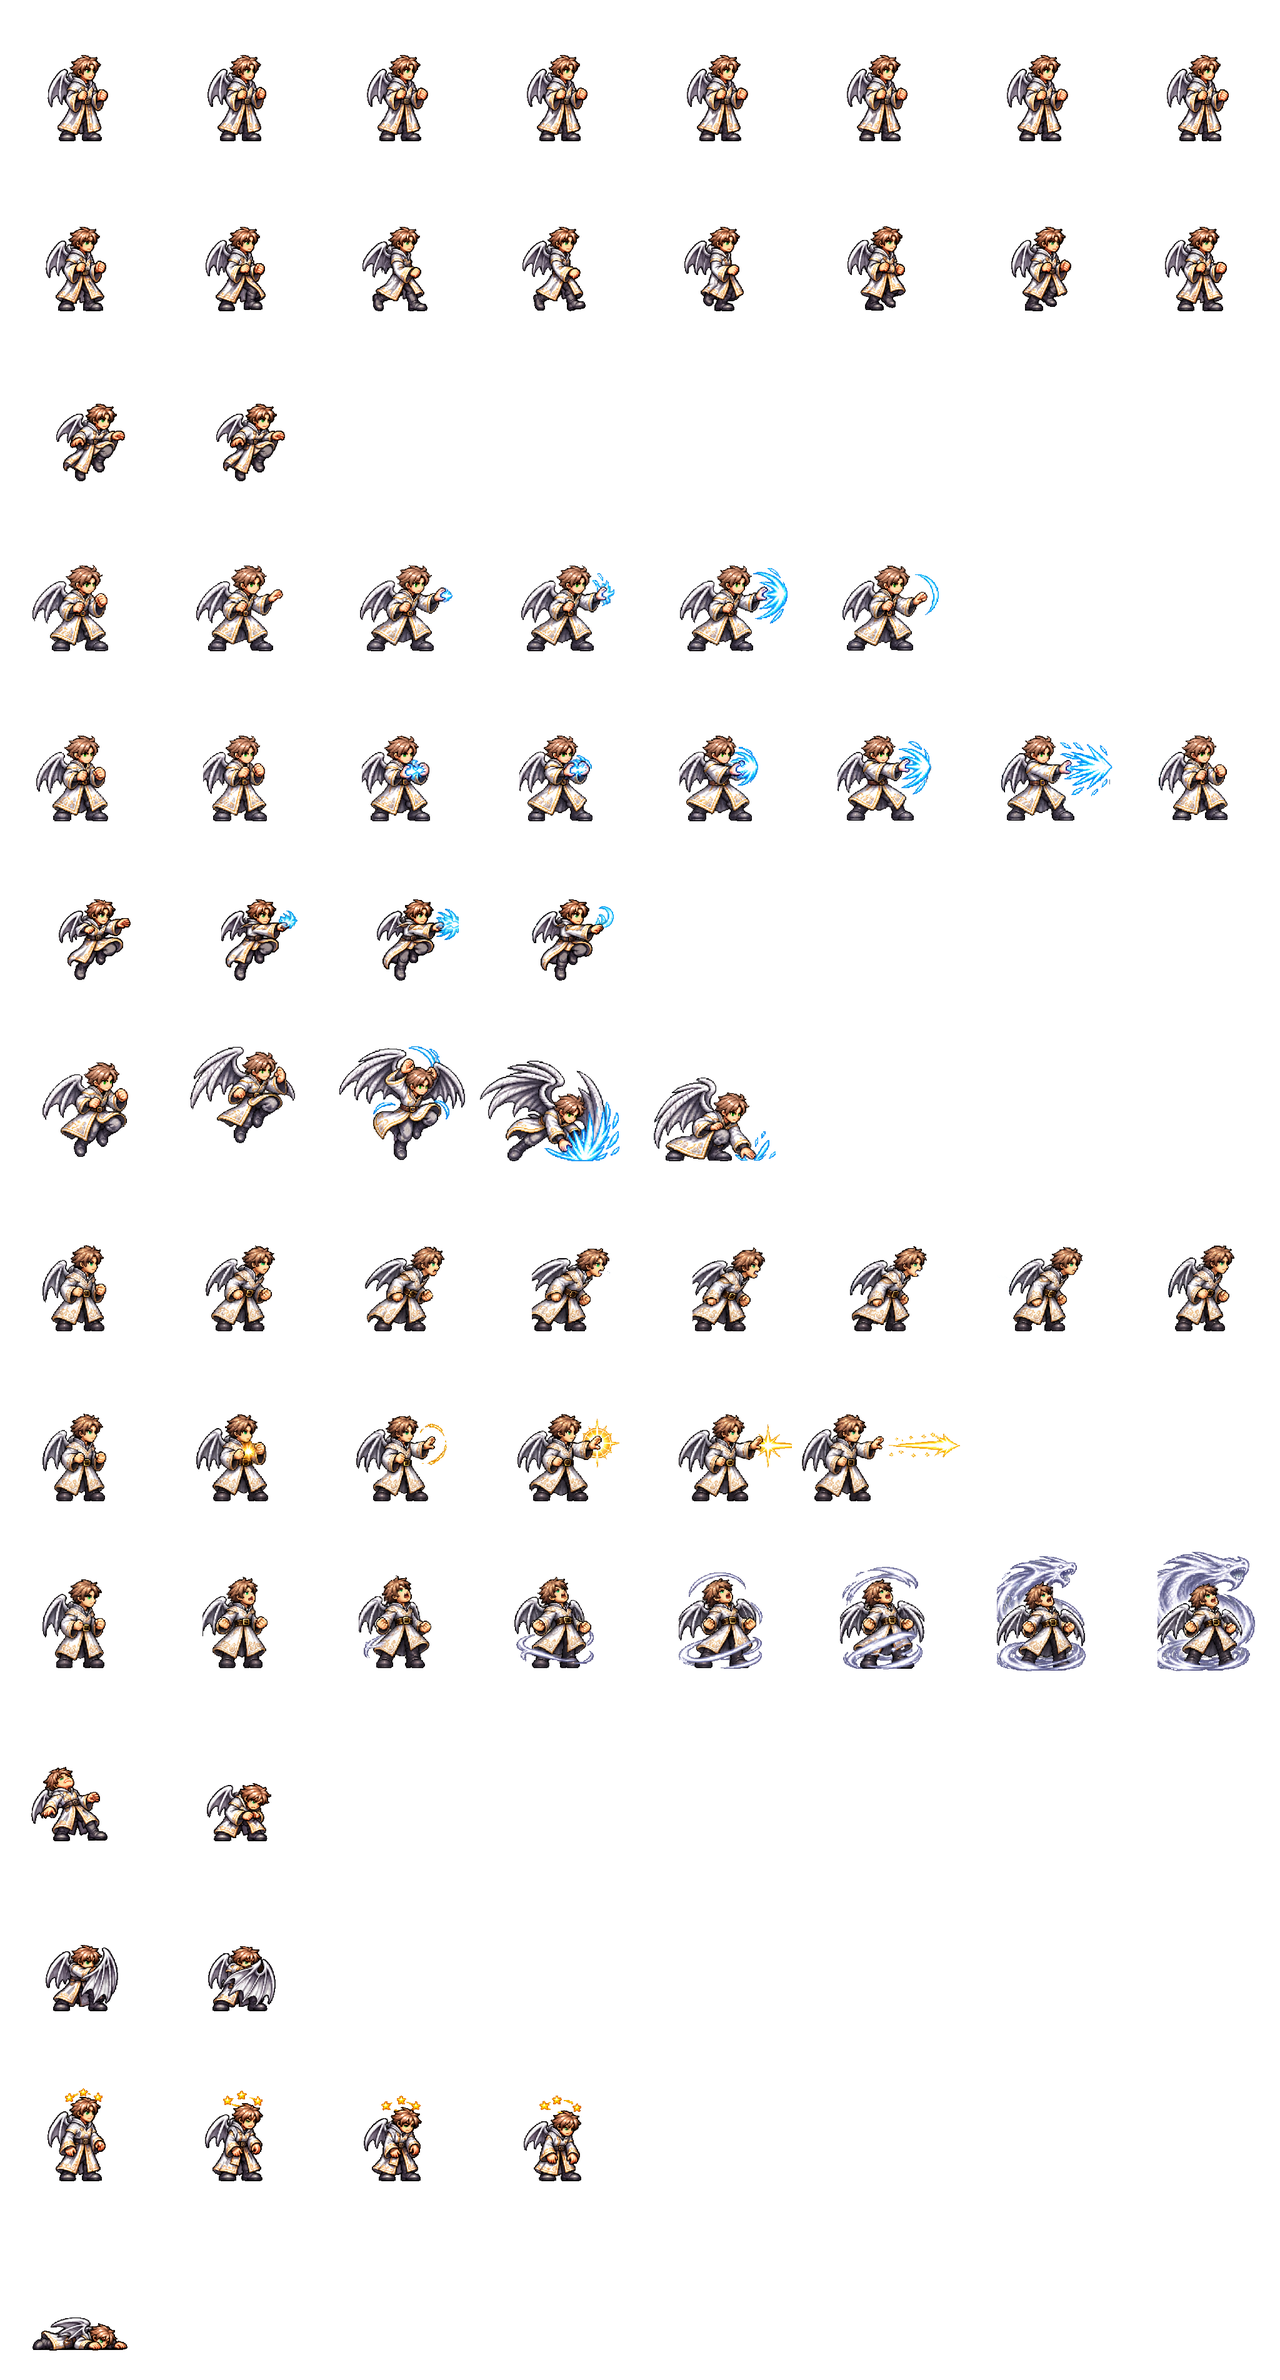
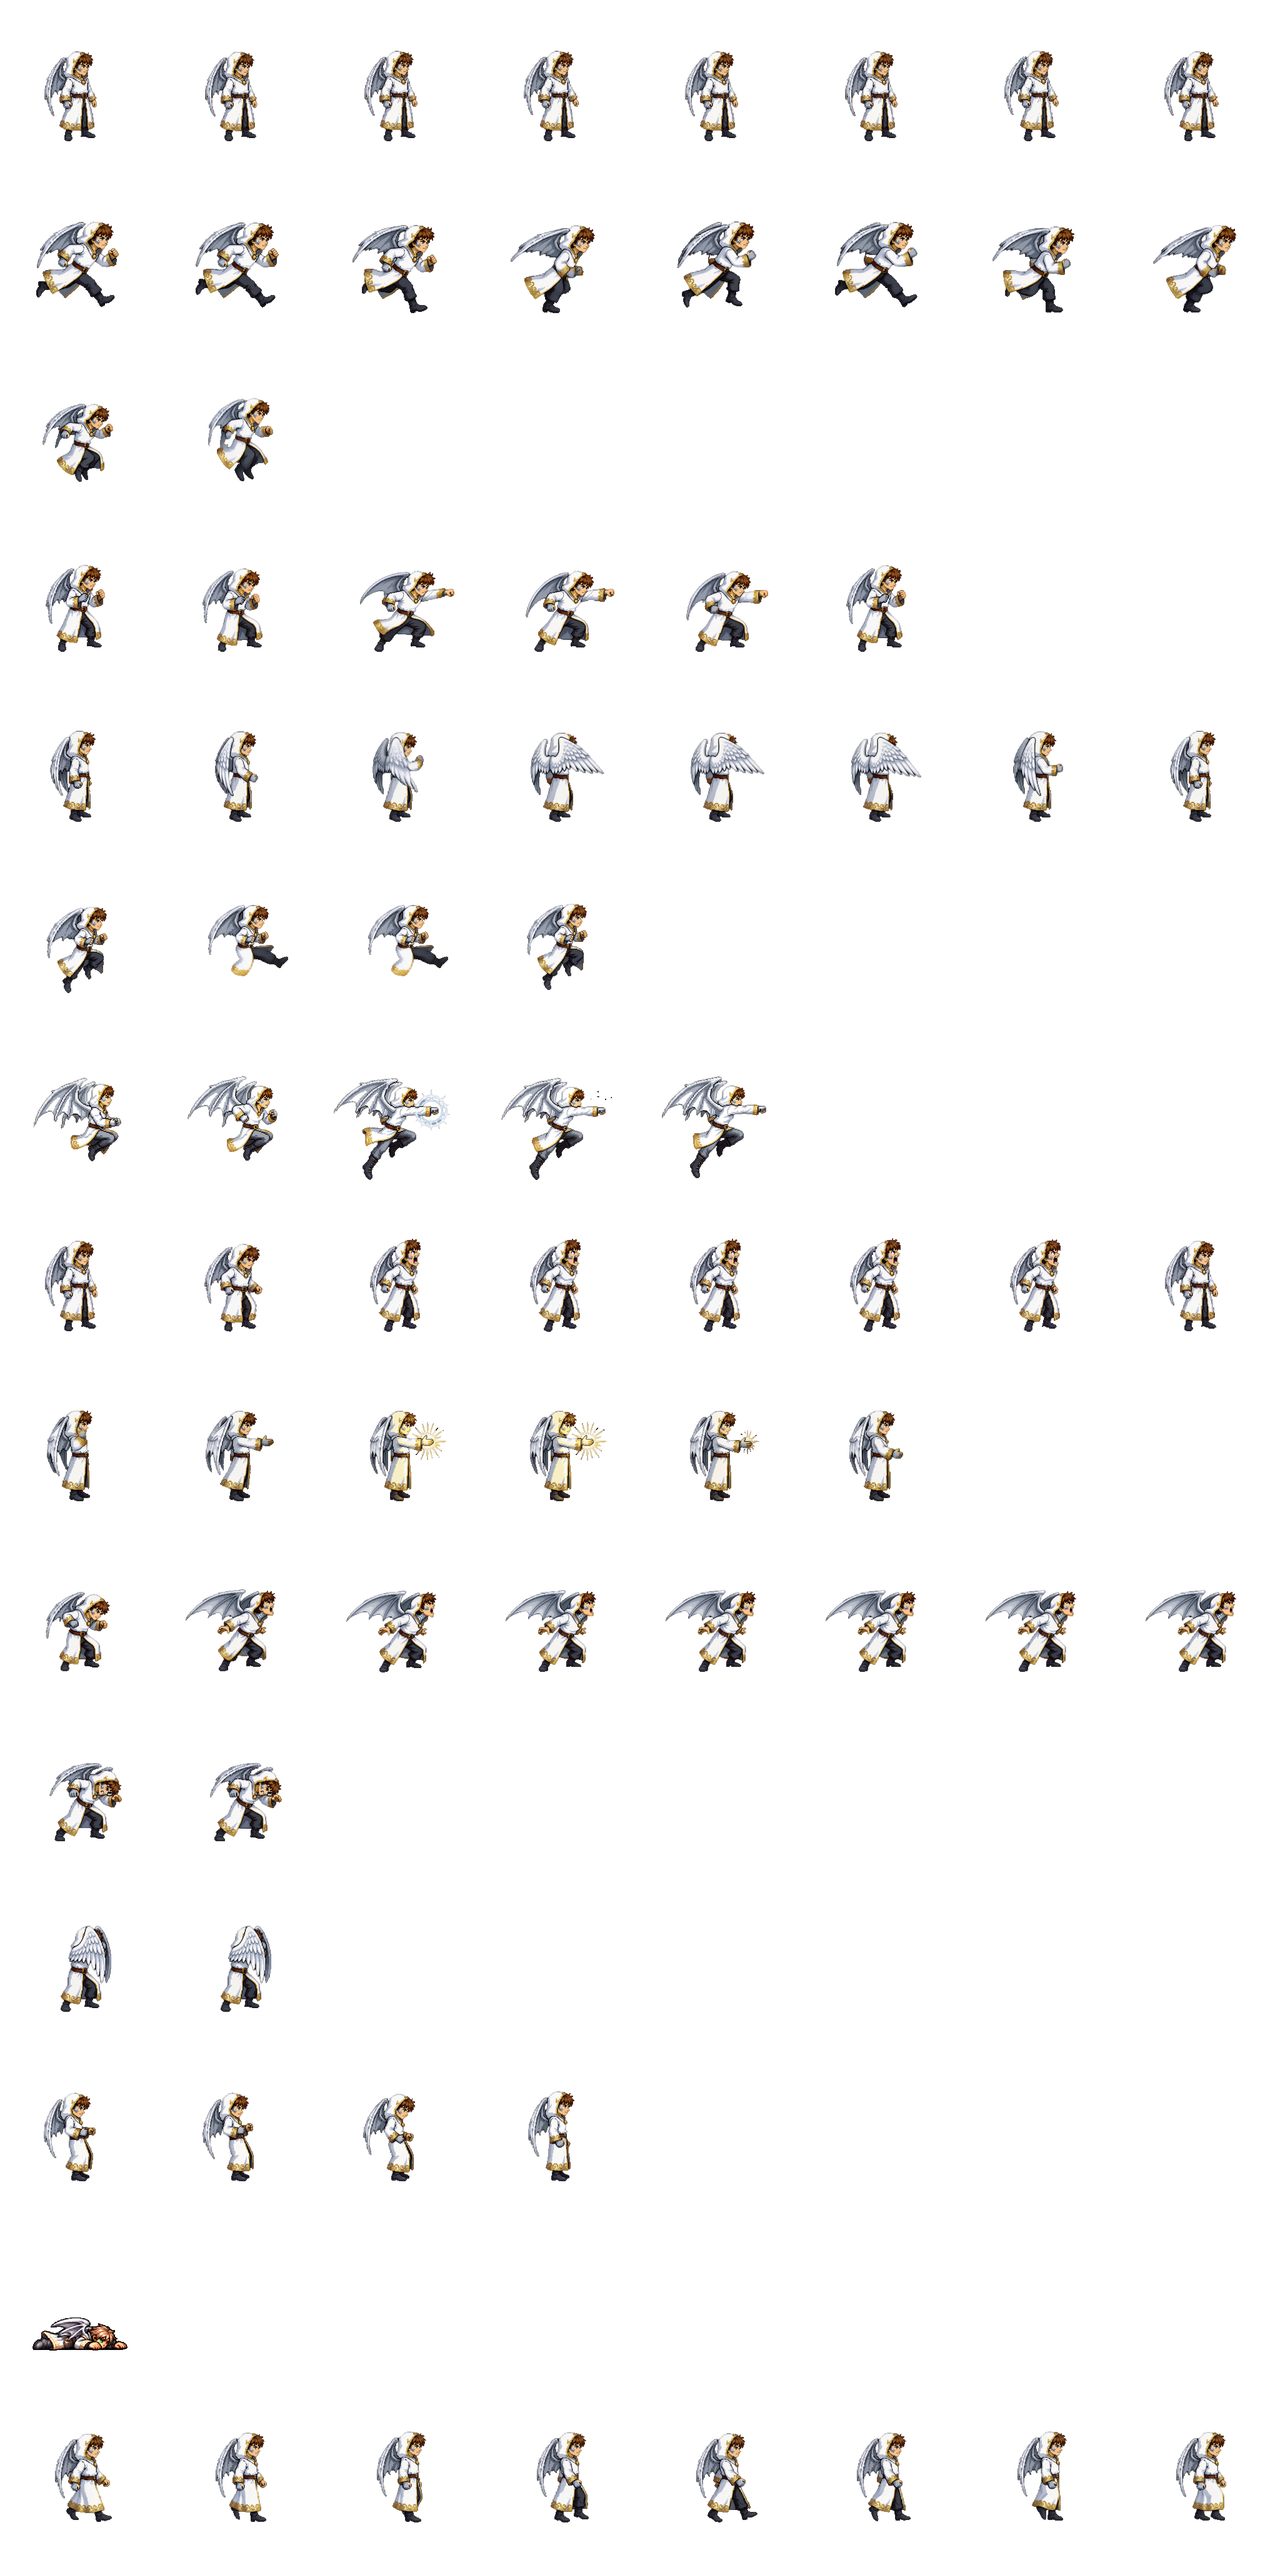
v0.2.12: free facing, Soren's dragon breath cone, new Soren dragon art
Claude-Session: https://claude.ai/code/session_016k8booSJmwFL3PSx76aHCw

diff --git a/index.html b/index.html
@@ -312,6 +312,7 @@ const STEADY_T=180,STEADY_MODE='A'; // Big Chief after a union break: 3s of no k
 const CHIEF_NORM=1.0,HAWK_MUL=1.2,HAWK_KB=1.3,BEAR_SHIELD=0.10; // Big Chief: normals at 80%; the hawk totem gives +20% (back to 96%); the bear's shield is 10% of max HP
 const TOTEMS=[{id:'unicorn',n:'UNICORN TOTEM!',col:'#9bf0a0',hue:0},{id:'bear',n:'BEAR TOTEM!',col:'#d8a060',hue:-95},{id:'hawk',n:'HAWK TOTEM!',col:'#ffd34d',hue:-70}];
 const GUIDE_T=240,GUIDE_BONUS=1.2; // Guiding Bolt: the mark lasts 4s; his next direct hit on them does +20%
+const DRAGON_CONE=[-2,0,1.4,2.6]; // dragon breath fan: vertical speed of each puff (from his mouth: up a little, straight, down, down to the ground)
 const SOREN_BREATH=13,DRAGON_T=480,DRAGON_TAKE=0.7,DRAGON_HIT=1.32,DRAGON_SPD=1.15,GLIDE_VY=1.8; // Soren: breath damage per puff, dragon form (6s): damage taken / dealt, speed; max fall speed while gliding
 const UNION_BREAK=150,PAX_MUL=1.2,SMOKE_LIFE=240,TOTEM_HEAL=5,TOTEM_DMG=12,DEER_DMG=34,DEER_CD=360,TRAIN_END=52,SMOKE_MISS=[0.5,0.25,0],SMOKE_CRIT=0.3,ACR_DMG=18,TRAIN_V=8.5,TRAIN_BASE=6,TRAIN_PER=0.95,TRAIN_WALL=30,STRIKE_HITS=5,STRIKE_DMG=40,HUG_SQUEEZE=22,HUG_THROW=55,DART_CD=360;
 // Calder's syringer: each dart uses one chem that's ready; that chem then needs DART_CD frames to come back
@@ -558,8 +559,9 @@ const CH=[
  moves:Object.assign(normals({reach:8,light:1.18}),{
   s1:mv({n:'Frost Breath',d:'Breathes a short cone of freezing breath: several quick hits that chill (slow) whoever is caught in it',su:12,ac:1,re:16,len:46,dmg:0,box:[0,0,0,0],cd:150,
     start:(s,a)=>{if(a.dragon>0)say(s,a.x,a.y-120,'DRAGON BREATH!','#bfe6ff',26)},
-    tick:(s,a,f)=>{if(f>=12&&f<=40&&(f-12)%4===0){const big=a.dragon>0;proj(s,a,{kind:'frost',big,x:a.x+a.face*(big?70:30),y:a.y-(big?84:70)+((f/4)%3-1)*8,vx:a.face*(big?10:8.5),w:big?40:28,h:big?36:24,life:big?30:22,dmg:SOREN_BREATH,kb:[1.2,0],hs:6,
-      onHit:(s,a,d)=>{d.slow=Math.max(d.slow,45)}})}}}),
+    tick:(s,a,f)=>{if(f>=12&&f<=40&&(f-12)%4===0){const big=a.dragon>0,chill=(s,a,d)=>{d.slow=Math.max(d.slow,45)};
+      if(big){for(const vy of DRAGON_CONE)proj(s,a,{kind:'frost',big,grp:s.frame*2+a.i+1,x:a.x+a.face*24,y:a.y-84+((f/4)%2)*6,vx:a.face*9.5,vy,w:46,h:42,life:37,dmg:SOREN_BREATH,kb:[1.2,0],hs:6,onHit:chill});return} // dragon: a wide cone from his mouth down to the ground (each puff of the fan is one hit: only the first to land counts)
+      proj(s,a,{kind:'frost',big,x:a.x+a.face*30,y:a.y-70+((f/4)%3-1)*8,vx:a.face*8.5,w:28,h:24,life:22,dmg:SOREN_BREATH,kb:[1.2,0],hs:6,onHit:chill})}}}),
   s2:mv({n:'Guiding Bolt',d:'His signature spell: a bolt of radiant light fired straight ahead. A hit leaves the target glowing for 4s, and his next hit on them does 20% more damage',su:14,ac:1,re:16,len:34,dmg:0,box:[0,0,0,0],cd:58,
     tick:(s,a,f)=>{if(f===14)proj(s,a,{kind:'moon',y:a.y-62,vx:a.face*10,w:26,h:18,life:110,dmg:76,kb:[5,-3],hs:16,onHit:(s,a,d)=>{d.guided=GUIDE_T;s.fx.push({k:'sfx',row:3,x:d.x,y:d.y-60,life:18,t:0,d:96})}})}}),
   su:mv({n:'Silver Dragon',d:'Roars (knocking back anyone close) and takes the form of a silver dragon for 8s: takes 30% less damage, hits 32% harder, moves faster, and his breath gets bigger',su:14,ac:1,re:18,len:36,dmg:0,box:[0,0,0,0],inv:[0,22],
@@ -848,15 +850,15 @@ function control(s,f,inp){
   const pr=inp&~f.prev;f.prev=inp;
   if(s.phase!=='fight')return;
   if(!['idle','walk','jump','block'].includes(f.st))return;
-  const c=CH[f.c],d=opp(s,f);
-  if(f.ground&&f.st!=='jump')f.face=d.x>=f.x?1:-1;
+  const c=CH[f.c];
+  const dir=((inp&K.R)?1:0)-((inp&K.L)?1:0);
+  if(dir)f.face=dir; // free facing: you face the way you last pressed (ground or air, and while blocking), so a direction + attack on the same frame turns first. Locked during attacks, hits and stuns
   const wantSuper=(pr&K.SU)||((inp&K.S1)&&(inp&K.S2)&&(pr&(K.S1|K.S2)));
   if(wantSuper&&f.meter>=METER)return startMove(s,f,'su');
   if((pr&K.S1)&&!(inp&K.S2)&&f.cd.s1<=0)return startMove(s,f,'s1');
   if((pr&K.S2)&&!(inp&K.S1)&&f.cd.s2<=0)return startMove(s,f,'s2');
   if(pr&K.HP)return startMove(s,f,f.ground?'h':'ah');
   if(pr&K.LP)return startMove(s,f,f.ground?'l':'al');
-  const dir=((inp&K.R)?1:0)-((inp&K.L)?1:0);
   const wind=STAGE.hazard==='wind'&&s.hz?s.hz.w:0;
   const spd=c.spd*(f.slow>0?(f.slowLv>1?0.35:0.55):1)*(f.haste>0?1.35:1)*(f.muddle>0?0.7:1)*(f.berserk>0?1.15:1)*(f.dragon>0?DRAGON_SPD:1)*(f.jet>0?JET_SPD:1)*(dir?1+WIND.k*wind*dir:1); // with the wind: faster; into it: slower
   if(f.ground){
@@ -934,7 +936,7 @@ function tickProj(s){
     if(p.betrayAt&&p.t===p.betrayAt){p.vx=-p.vx*1.2;p.bad=1;say(s,p.x,p.y-40,'...UH OH','#ff6a5a',24)}
     const owner=s.f[p.o],tgt=p.bad?owner:s.f[1-p.o];
     if(p.life>0&&!p.noHit&&p.miss!==tgt.i&&ov([p.x-p.w/2,p.y-p.h/2,p.w,p.h],hurt(tgt))){
-      if(hitF(s,p.bad?null:owner,tgt,{dmg:p.dmg*CH[owner.c].pow*(p.falloff?Math.max(0.4,1-p.t*Math.abs(p.vx)/600):1),kb:p.kb,hs:p.hs,launch:p.launch,unb:p.unb,dir:p.vx>=0?1:-1,src:p.src,shieldMul:p.shieldMul||(p.kind==='bullet'?0.5:1)})){p.life=0;if(p.kind==='deer')s.fx.push({k:'cdpoof',x:p.x,y:p.y+34+(p.n%2)*16,dir:Math.sign(p.vx)||1,red:p.n===0,life:24,t:0});if(p.kind==='shiplaser')s.fx.push({k:'olhit',x:p.x,y:p.y,life:16,t:0});if(p.kind==='plasma')s.fx.push({k:'hrplasma',x:p.x,y:p.y,life:18,t:0});
+      if(hitF(s,p.bad?null:owner,tgt,{dmg:p.dmg*CH[owner.c].pow*(p.falloff?Math.max(0.4,1-p.t*Math.abs(p.vx)/600):1),kb:p.kb,hs:p.hs,launch:p.launch,unb:p.unb,dir:p.vx>=0?1:-1,src:p.src,shieldMul:p.shieldMul||(p.kind==='bullet'?0.5:1)})){p.life=0;if(p.grp)for(const q of s.proj)if(q.grp===p.grp)q.noHit=1;if(p.kind==='deer')s.fx.push({k:'cdpoof',x:p.x,y:p.y+34+(p.n%2)*16,dir:Math.sign(p.vx)||1,red:p.n===0,life:24,t:0});if(p.kind==='shiplaser')s.fx.push({k:'olhit',x:p.x,y:p.y,life:16,t:0});if(p.kind==='plasma')s.fx.push({k:'hrplasma',x:p.x,y:p.y,life:18,t:0});
         if(p.onHit&&(tgt.st==='hit'||tgt.st==='down'||tgt.shrugT===s.frame||(p.pierce&&(tgt.st==='bstun'||tgt.st==='stun'))))p.onHit(s,owner,tgt,p)}
       else if(tgt.missed===s.frame)p.miss=tgt.i;
     }
@@ -1163,7 +1165,12 @@ const SPECIAL_RANGE={frica:{s1:[0,120],s2:[0,700]},madog:{s1:[60,420],s2:[0,140]
   calder:{s1:[220,850],s2:[90,600]},heavyrail:{s1:[120,700],s2:[60,250]},owen:{s1:[90,600],s2:[0,420]},tedd:{s1:[40,420],s2:[0,95]},bof:{s1:[60,230],s2:[0,125]},chief:{s1:[60,620]},soren:{s1:[30,170],s2:[160,720]}};
 // react: [fastest, slowest] frames between decisions (60 frames = 1s). Humans react in roughly 12-18 frames.
 const CPU_DIFF={easy:{react:[22,36],block:0.15,aggr:0.35,adapt:0.3},normal:{react:[15,26],block:0.45,aggr:0.55,adapt:0.7},hard:{react:[11,19],block:0.75,aggr:0.75,adapt:1}};
-function cpuInput(s,i,diff,mem){ // stage awareness wrapped around the fighting brain: get out of the vortex, don't wander in
+function cpuInput(s,i,diff,mem){ // free facing: when the CPU attacks, blocks or uses a special it turns to face its opponent first (the brain was written for auto-facing)
+  const o=cpuStage(s,i,diff,mem),me=s.f[i],d=s.f[1-i];
+  if(!(o&(K.LP|K.HP|K.S1|K.S2|K.SU|K.B))||(o&K.U)||me.st==='ko'||d.st==='ko')return o;
+  if(Math.abs(d.x-me.x)<4)return o;
+  return(o&~(K.L|K.R))|(d.x>me.x?K.R:K.L)}
+function cpuStage(s,i,diff,mem){ // stage awareness wrapped around the fighting brain: get out of the vortex, don't wander in
   const o=cpuBrain(s,i,diff,mem),P=STAGE.pit,me=s.f[i],hw=CH[me.c].w/2,free=['idle','walk','block'].includes(me.st);
   if(STAGE.hazard==='boulder'&&s.hz&&s.hz.warn>0&&me.st!=='ko'){const h=s.hz,react={easy:45,normal:24,hard:12}[diff]||24; // see the shadow, get out from under it
     if(BOULDER.warn-h.warn>=react){const dx=me.x-h.x,zone=BOULDER.w/2+hw+14;
@@ -2150,7 +2157,7 @@ function pixelSprite(f,key){
 }
 /* ---- hand-made sprite sheets (8 columns x 14 rows of 256x272 cells, feet at 128,226, facing right).
    Rows: idle, walk, jump, light, heavy, air light, air heavy, special 1, special 2, super, hit, block, stunned, knocked down. ---- */
-const SHEETS={frica:{src:'frica_sheet.png',frames:[8,8,2,6,8,4,5,8,6,8,2,2,4,1]},madog:{src:'madog_sheet.png',frames:[8,8,2,7,8,4,5,8,6,8,2,2,4,1]},feng:{src:'feng_sheet.png',frames:[8,8,2,6,8,4,5,8,6,8,2,2,4,1]},dask:{src:'dask_sheet.png',frames:[8,8,2,6,8,4,5,8,6,8,2,2,4,1]},tenebrund:{src:'tenebrund_sheet.png',frames:[8,8,2,6,8,4,5,8,6,8,2,2,4,1]},salty:{src:'salty_sheet.png',frames:[8,8,2,6,8,4,5,8,6,8,2,2,4,1,8,8]},calder:{src:'calder_sheet.png',frames:[7,7,2,6,7,4,5,7,6,7,2,2,4,1]},heavyrail:{src:'heavyrail_sheet.png',frames:[8,8,2,6,8,4,5,8,6,8,2,2,4,1]},owen:{src:'owen_sheet.png',frames:[8,8,2,6,8,4,5,8,6,8,2,2,4,1]},tedd:{src:'tedd_sheet.png',frames:[8,8,2,6,8,4,5,8,6,8,2,2,4,1]},bof:{src:'bof_sheet.png',frames:[8,8,2,6,8,4,5,8,6,8,2,2,4,1]},chief:{src:'chief_sheet.png',frames:[8,8,2,6,8,4,5,8,6,8,2,2,4,1]},soren:{src:'soren_sheet.png',frames:[8,8,2,6,8,4,5,8,6,8,2,2,4,1]}};
+const SHEETS={frica:{src:'frica_sheet.png',frames:[8,8,2,6,8,4,5,8,6,8,2,2,4,1]},madog:{src:'madog_sheet.png',frames:[8,8,2,7,8,4,5,8,6,8,2,2,4,1]},feng:{src:'feng_sheet.png',frames:[8,8,2,6,8,4,5,8,6,8,2,2,4,1]},dask:{src:'dask_sheet.png',frames:[8,8,2,6,8,4,5,8,6,8,2,2,4,1]},tenebrund:{src:'tenebrund_sheet.png',frames:[8,8,2,6,8,4,5,8,6,8,2,2,4,1]},salty:{src:'salty_sheet.png',frames:[8,8,2,6,8,4,5,8,6,8,2,2,4,1,8,8]},calder:{src:'calder_sheet.png',frames:[7,7,2,6,7,4,5,7,6,7,2,2,4,1]},heavyrail:{src:'heavyrail_sheet.png',frames:[8,8,2,6,8,4,5,8,6,8,2,2,4,1]},owen:{src:'owen_sheet.png',frames:[8,8,2,6,8,4,5,8,6,8,2,2,4,1]},tedd:{src:'tedd_sheet.png',frames:[8,8,2,6,8,4,5,8,6,8,2,2,4,1]},bof:{src:'bof_sheet.png',frames:[8,8,2,6,8,4,5,8,6,8,2,2,4,1]},chief:{src:'chief_sheet.png',frames:[8,8,2,6,8,4,5,8,6,8,2,2,4,1]},soren:{src:'soren_sheet.png',frames:[8,8,2,6,8,4,5,8,6,8,2,2,4,1,8]}};
 const SHEET_ROW={l:3,h:4,al:5,ah:6,s1:7,s2:8,su:9,dact:8};
 const FXS={demon:{src:'demon_sheet.png'},static:{src:'static_sheet.png'},madog:{src:'madog_fx.png'},fengsw:{src:'feng_sw.png'},fengpamph:{src:'feng_pamph.png'},fengpillar:{src:'feng_pillar.png'},vortex:{src:'erebus_vortex.png'},gfboulder:{src:'gf_boulder.png'},gfgiant:{src:'gf_giant.png'},unda:{src:'erebus_unda.png'},dask:{src:'dask_fx.png'},ten:{src:'tenebrund_fx.png'},sbul:{src:'salty_bullets.png'},swave:{src:'salty_wave.png'},shipdoor:{src:'ship_door.png'},bloatfly:{src:'tahoe_bloatfly.png'},cproj:{src:'calder_proj.png'},cchem:{src:'calder_chems.png'},hrfx:{src:'hr_fx.png'},hrp:{src:'hr_plasma.png'},oproj:{src:'owen_proj.png'},olaser:{src:'owen_laser.png'},osmoke:{src:'owen_smoke.png'},tfx:{src:'tedd_fx.png'},bfx:{src:'bof_fx.png'},cdeer:{src:'chief_deer.png'},celf:{src:'chief_elves.png'},cfx:{src:'chief_fx.png'},arrows:{src:'vogler_arrows.png'},sdragon:{src:'soren_dragon.png'},sfx:{src:'soren_fx.png'}};
 const SBC=84,SWC=230; // salty bullets (bullet 4, muzzle 4, impact 6) and Mush It wave (loop 8, fade 8)
@@ -2197,14 +2204,14 @@ function sheetFrame(f,sh){
   }
   return[row,col];
 }
-const DGW=448,DGH=320,DGX=224,DGY=290; // soren_dragon.png cells; rows: hover, walk, claw, tail, breath, cast, roar, hit 2 + block 2
+const DGW=512,DGH=320,DGX=224,DGY=290,DGN=[4,5,8,8,8,8,8,4]; // soren_dragon.png cells (frames per row in DGN); rows: hover, gallop, claw, wing sweep, breath (col 0 = standing), cast, roar, hit 2 + block 2
 function dragonFrame(f){
-  if(f.st==='atk'){const m=CH[f.c].moves[f.mv],row={l:2,al:2,h:3,ah:3,s1:4,s2:5,su:6}[f.mv]??2;return[row,Math.min(3,Math.floor(f.mf/m.len*4))]}
+  if(f.st==='atk'){const m=CH[f.c].moves[f.mv],row={l:2,al:2,h:3,ah:3,s1:4,s2:5,su:6}[f.mv]??2;return[row,Math.min(DGN[row]-1,Math.floor(f.mf/m.len*DGN[row]))]}
   if(f.st==='hit'||f.st==='grabbed')return[7,Math.min(1,Math.floor(f.t/5))];
   if(f.st==='block'||f.st==='bstun')return[7,f.st==='bstun'?3:2];
   if(f.st==='stun'||f.st==='ko'||f.st==='down')return[7,1];
-  if(!f.ground)return[0,Math.floor(f.t/6)%4];
-  if(f.st==='walk')return[1,Math.floor(f.t/5)%4];
+  if(!f.ground)return[0,Math.floor(f.t/6)%DGN[0]];
+  if(f.st==='walk')return[1,Math.floor(f.t/4)%DGN[1]];
   return[4,0];
 }
 function dragonArt(f){return f.dragon>0&&CH[f.c].id==='soren'&&fxOn('sdragon')}
@@ -2241,7 +2248,7 @@ function drawFighter(f,tagCol,tag){
   if(f.counter>0){g.strokeStyle='#ffd34d';g.lineWidth=3;g.globalAlpha=0.6+0.4*Math.sin(f.t);g.beginPath();g.arc(0,-c.h*0.5,c.h*0.66,0,7);g.stroke();g.globalAlpha=1}
   if(f.armor){g.strokeStyle='#ffffffaa';g.lineWidth=3;rr(-c.w/2-6,-c.h-6,c.w+12,c.h+12,14);g.stroke()}
   g.restore();
-  if(act&&act.dmg){ // swoosh trail on the attack's hitbox
+  if(act&&act.dmg&&!(c.id==='soren'&&f.mv==='ah')){ // swoosh trail on the attack's hitbox (not Soren's air heavy: his sprite has its own light burst)
     const b=hbox(f,act.box),cx=b[0]+b[2]/2,cy=b[1]+b[3]/2;
     g.save();g.translate(cx,cy);g.scale(f.face,1);
     g.strokeStyle=f.mv==='su'?'#ffd34dcc':'#ffffffaa';g.lineWidth=5;g.lineCap='round';
@@ -2280,7 +2287,7 @@ function drawProj(p){
   else if(p.kind==='wave'&&fxOn('swave')){const d=SWC/1.5;g.scale(Math.sign(p.vx)||1,1);fxCell(fxOn('swave'),(Math.floor(p.t/5)%8)*SWC,0,SWC,SWC,-d/2,-d/2,d,d)}
   else if(p.kind==='bullet'){g.fillStyle='#ffd34d';g.fillRect(-p.w/2,-p.h/2,p.w,p.h);g.fillStyle='#fff6';g.fillRect(-p.w/2-10*Math.sign(p.vx),-2,10,4)}
   else if(p.kind==='pamph'&&fxOn('fengpamph')){const d=56/1.5;g.scale(Math.sign(p.vx)||1,1);fxCell(fxOn('fengpamph'),(Math.floor(p.t/3)%8)*56,0,56,56,-d/2,-d/2,d,d)}
-  else if(p.kind==='frost'&&fxOn('sfx')){const d=p.big?100:72;g.scale(Math.sign(p.vx)||1,1);g.globalAlpha=Math.max(0,Math.min(1,1.6-1.6*p.t/(p.life+2)));fxCell(fxOn('sfx'),Math.min(5,Math.floor(p.t/(p.life)*7))*256,(p.big?1:0)*256,256,256,-d/2,-d/2,d,d);g.globalAlpha=1}
+  else if(p.kind==='frost'&&fxOn('sfx')){const d=p.big?64+p.t*2.4:72;g.scale(Math.sign(p.vx)||1,1);g.globalAlpha=Math.max(0,Math.min(1,1.6-1.6*p.t/(p.life+2)));fxCell(fxOn('sfx'),Math.min(5,Math.floor(p.t/(p.life)*7))*256,(p.big?1:0)*256,256,256,-d/2,-d/2,d,d);g.globalAlpha=1}
   else if(p.kind==='frost'){const k=Math.min(1,p.t/8),r=(p.big?16:11)+p.t*0.5;g.globalAlpha=Math.max(0,1-p.t/(p.life+2));const gr=g.createRadialGradient(0,0,1,0,0,r);gr.addColorStop(0,'#ffffff');gr.addColorStop(0.5,'#bfe6ff');gr.addColorStop(1,'#7fb8ff00');g.fillStyle=gr;g.beginPath();g.arc(0,0,r*k+4,0,7);g.fill();g.fillStyle='#ffffff';for(let i=0;i<3;i++)g.fillRect(Math.cos(p.t+i*2)*r*0.6,Math.sin(p.t*1.3+i)*r*0.5,2,2)}
   else if(p.kind==='moon'&&fxOn('sfx')){const d=84;g.scale(Math.sign(p.vx)||1,1);fxCell(fxOn('sfx'),(p.t<9?Math.floor(p.t/3):2+Math.floor(p.t/4)%2)*256,2*256,256,256,-d/2-14,-d/2,d,d)}
   else if(p.kind==='moon'){g.scale(Math.sign(p.vx)||1,1);g.shadowColor='#dfe9ff';g.shadowBlur=14;g.fillStyle='#f4f7ff';g.beginPath();g.arc(0,0,11,-1.3,1.3);g.arc(-5,0,9,1.2,-1.2,true);g.fill();g.shadowBlur=0;g.fillStyle='#dfe9ff66';g.fillRect(-26,-2,18,4)}
@@ -3038,7 +3045,7 @@ $('oSelect').onclick=()=>{if(mode==='online'){netSend({t:'select'});netGoSelect(
    side's input is predicted (= their last known input) and, when the real one arrives and differs,
    the game rewinds to that frame and replays it. The simulation is deterministic, so both sides
    end up identical. */
-const VERSION='0.2.11'; // shown on the title screen; online players must match
+const VERSION='0.2.12'; // shown on the title screen; online players must match
 const BUILD='pb-'+VERSION+'-'+CH.length+'-'+STAGES.length;
 $('verTag').textContent='v'+VERSION;
 (function checkForUpdate(){ // phones cache the page: if the copy on the server is newer, say so
